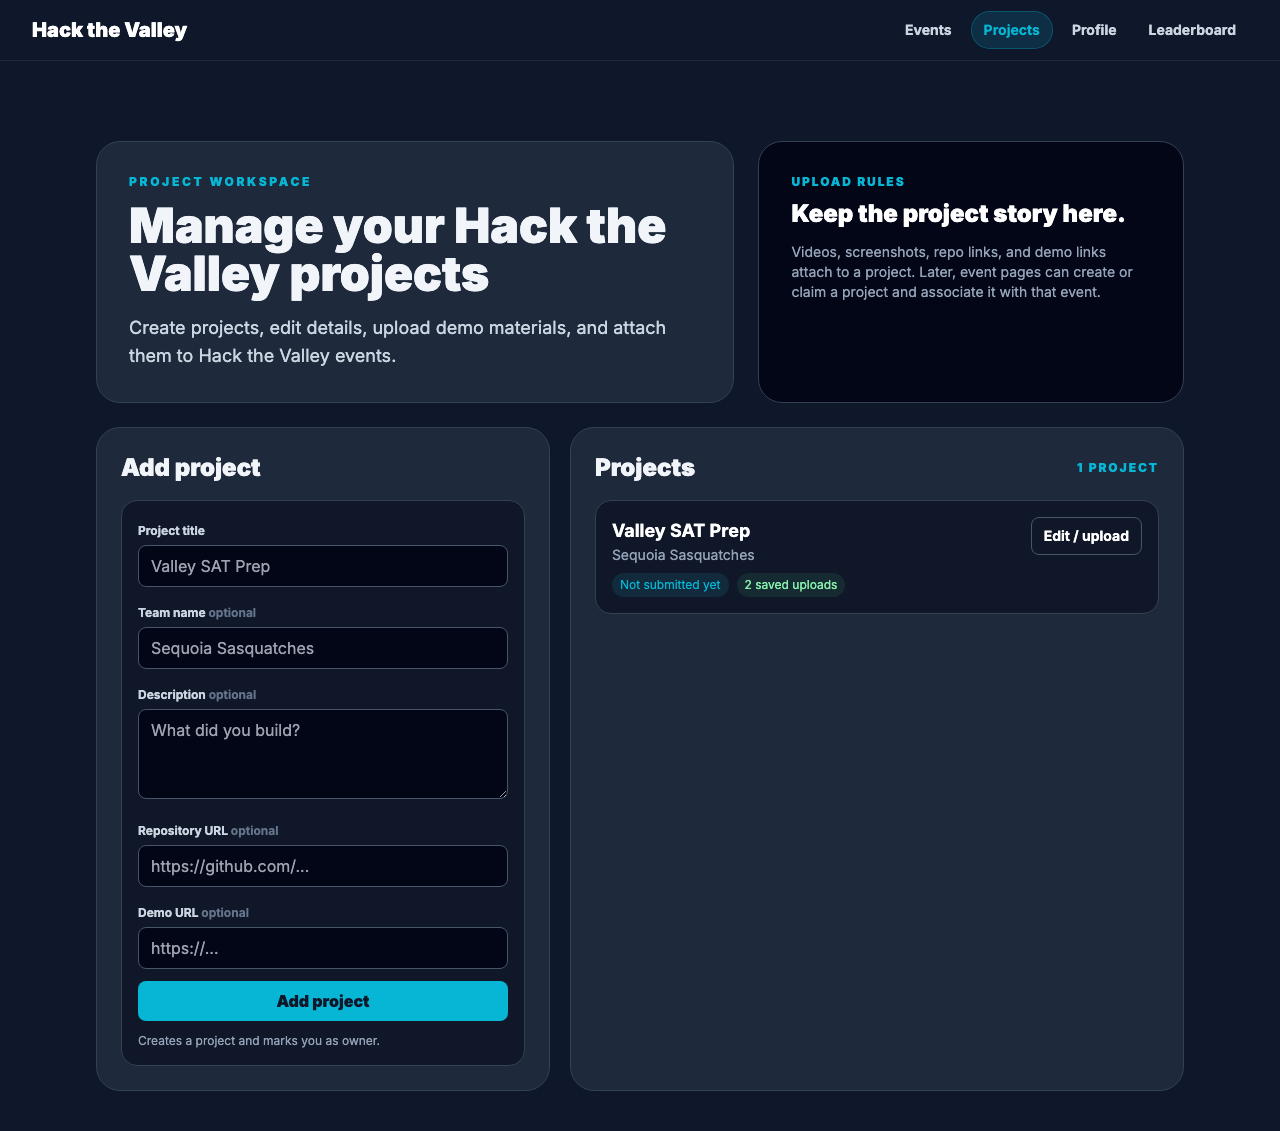
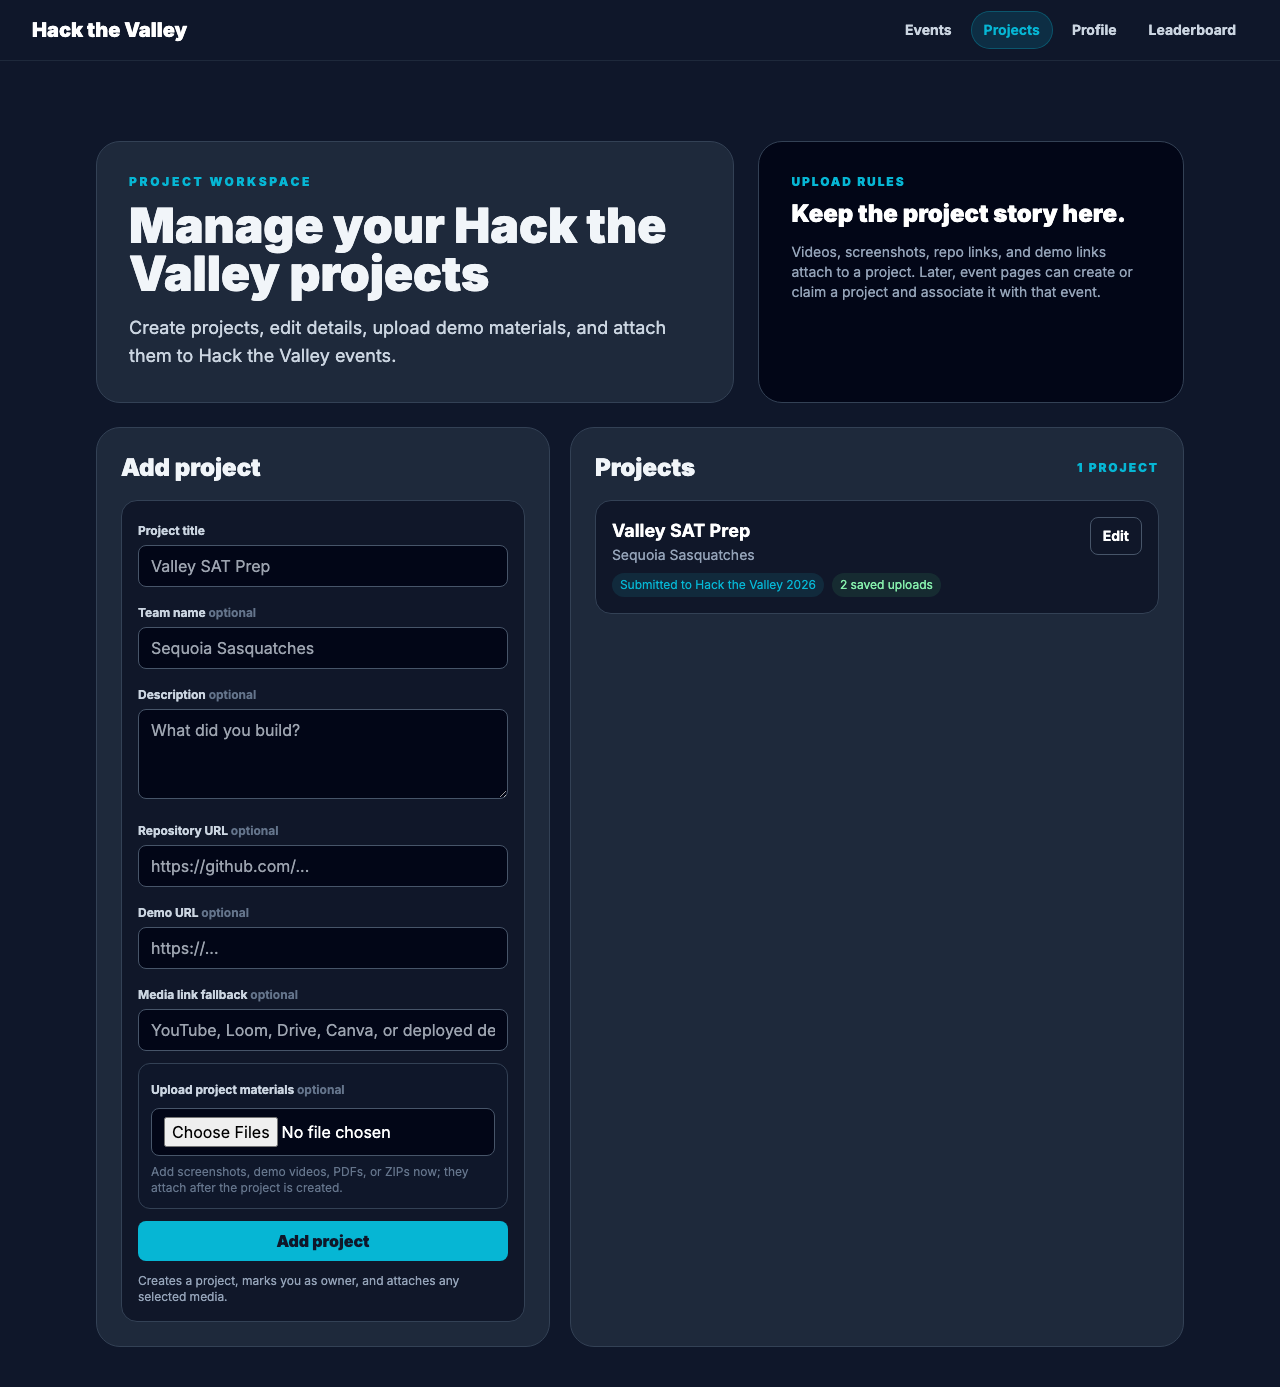
Let project creation attach media uploads

diff --git a/public/me/projects/index.html b/public/me/projects/index.html
@@ -59,8 +59,13 @@
           <label class="block"><span class="text-xs font-bold text-slate-300">Description <span class="text-slate-500">optional</span></span><textarea name="description" rows="3" class="mt-1 w-full rounded-lg bg-slate-950 border border-slate-600 px-3 py-2 text-white" placeholder="What did you build?"></textarea></label>
           <label class="block"><span class="text-xs font-bold text-slate-300">Repository URL <span class="text-slate-500">optional</span></span><input name="repo_url" type="url" class="mt-1 w-full rounded-lg bg-slate-950 border border-slate-600 px-3 py-2 text-white" placeholder="https://github.com/..."></label>
           <label class="block"><span class="text-xs font-bold text-slate-300">Demo URL <span class="text-slate-500">optional</span></span><input name="demo_url" type="url" class="mt-1 w-full rounded-lg bg-slate-950 border border-slate-600 px-3 py-2 text-white" placeholder="https://..."></label>
+          <label class="block"><span class="text-xs font-bold text-slate-300">Media link fallback <span class="text-slate-500">optional</span></span><input name="media_link" type="url" class="mt-1 w-full rounded-lg bg-slate-950 border border-slate-600 px-3 py-2 text-white" placeholder="YouTube, Loom, Drive, Canva, or deployed demo link"></label>
+          <div class="rounded-xl border border-slate-700 bg-bc-dark p-3">
+            <label class="block"><span class="text-xs font-bold text-slate-300">Upload project materials <span class="text-slate-500">optional</span></span><input name="project_uploads" type="file" multiple accept="image/*,video/*,.pdf,.zip" class="mt-2 w-full rounded-lg bg-slate-950 border border-slate-600 px-3 py-2 text-white"></label>
+            <p class="mt-2 text-xs text-slate-500">Add screenshots, demo videos, PDFs, or ZIPs now; they attach after the project is created.</p>
+          </div>
           <button class="w-full bg-bc-cyan text-bc-dark px-4 py-2 rounded-lg font-black hover:bg-cyan-400">Add project</button>
-          <p id="project-create-status" role="status" aria-live="polite" class="text-xs text-slate-400">Creates a project and marks you as owner.</p>
+          <p id="project-create-status" role="status" aria-live="polite" class="text-xs text-slate-400">Creates a project, marks you as owner, and attaches any selected media.</p>
         </form>
       </article>
 
@@ -140,7 +145,7 @@
                 <span class="rounded-full ${project.has_uploads ? "bg-green-400/10 text-green-300" : "bg-slate-700 text-slate-300"} px-2 py-1">${project.has_uploads ? `${project.upload_count} saved upload${project.upload_count === 1 ? "" : "s"}` : "No saved uploads"}</span>
               </div>
             </div>
-            <button type="button" data-toggle-project="${escapeHtml(id)}" class="rounded-lg border border-slate-600 px-3 py-2 text-sm font-bold text-white hover:border-bc-cyan">Edit / upload</button>
+            <button type="button" data-toggle-project="${escapeHtml(id)}" class="rounded-lg border border-slate-600 px-3 py-2 text-sm font-bold text-white hover:border-bc-cyan">Edit</button>
           </div>
           <div id="project-panel-${escapeHtml(id)}" class="hidden border-t border-slate-700 pt-4">
             <form data-project-edit-form data-project-id="${escapeHtml(id)}" class="space-y-3">
@@ -214,7 +219,7 @@
         description: form.elements.description.value.trim(),
         repo_url: form.elements.repo_url.value.trim(),
         demo_url: form.elements.demo_url.value.trim(),
-        mediaLink: form.elements.media_link.value.trim()
+        mediaLink: form.elements.media_link?.value.trim() || ""
       };
     }
 
@@ -232,6 +237,17 @@
       return data.upload;
     }
 
+    function createdProjectId(data) {
+      return data.project?.id || data.project?.project_id || data.claimed?.project?.id || data.state?.projects?.[0]?.project_id || data.state?.projects?.[0]?.id || "";
+    }
+
+    async function saveProjectMaterials(projectId, payload, uploads) {
+      return await jsonFetch(`/api/me/projects/${encodeURIComponent(projectId)}/materials`, {
+        method: "POST",
+        body: JSON.stringify({ ...payload, uploads })
+      });
+    }
+
     $("project-create-form").addEventListener("submit", async (event) => {
       event.preventDefault();
       const form = event.currentTarget;
@@ -241,16 +257,28 @@
         team_name: form.elements.team_name.value.trim(),
         description: form.elements.description.value.trim(),
         repo_url: form.elements.repo_url.value.trim(),
-        demo_url: form.elements.demo_url.value.trim()
+        demo_url: form.elements.demo_url.value.trim(),
+        mediaLink: form.elements.media_link.value.trim()
       };
+      const files = [...(form.elements.project_uploads?.files || [])];
       if (eventContext) payload.event_slug = eventContext.slug;
       try {
         status.className = "text-xs text-slate-400";
-        status.textContent = "Saving project…";
+        status.textContent = files.length ? `Saving project and uploading ${files.length} file${files.length === 1 ? "" : "s"}…` : "Saving project…";
         const data = await jsonFetch("/api/me/projects", { method: "POST", body: JSON.stringify(payload) });
-        renderProjects(data.state?.projects || []);
+        let finalData = data;
+        const projectIdValue = createdProjectId(data);
+        if (files.length) {
+          if (!projectIdValue) throw new Error("Project was created, but the upload target was missing. Open the project card and add media there.");
+          const uploaded = [];
+          for (const file of files) uploaded.push(await uploadFile(projectIdValue, file));
+          finalData = await saveProjectMaterials(projectIdValue, payload, uploaded);
+        }
+        renderProjects(finalData.state?.projects || data.state?.projects || []);
         status.className = "text-xs text-green-300";
-        status.textContent = eventContext ? `Added and submitted ${data.project?.title || "project"} to ${eventContext.name}.` : `Added ${data.project?.title || "project"}.`;
+        status.textContent = eventContext
+          ? `Added${files.length ? " with media" : ""} and submitted ${data.project?.title || "project"} to ${eventContext.name}.`
+          : `Added ${data.project?.title || "project"}${files.length ? " with media" : ""}.`;
         form.reset();
       } catch (error) {
         status.className = "text-xs text-red-300";
@@ -274,10 +302,7 @@
         try {
           materialButton.disabled = true;
           setProjectStatus(projectIdValue, "text-xs text-slate-400", "Saving materials…");
-          const data = await jsonFetch(`/api/me/projects/${encodeURIComponent(projectIdValue)}/materials`, {
-            method: "POST",
-            body: JSON.stringify({ ...payloadFromForm(form), uploads })
-          });
+          const data = await saveProjectMaterials(projectIdValue, payloadFromForm(form), uploads);
           pendingUploads.delete(projectIdValue);
           renderProjects(data.state?.projects || []);
         } catch (error) {